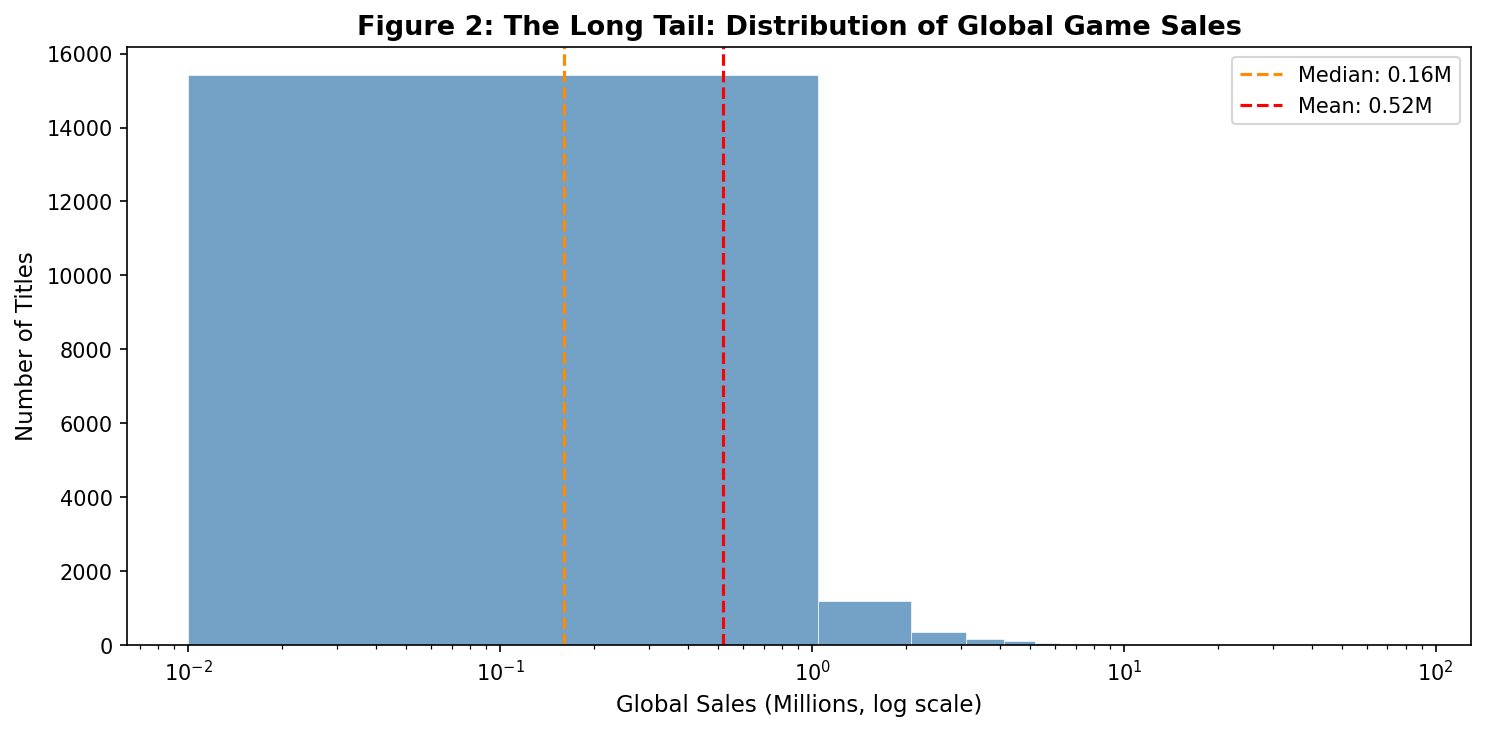
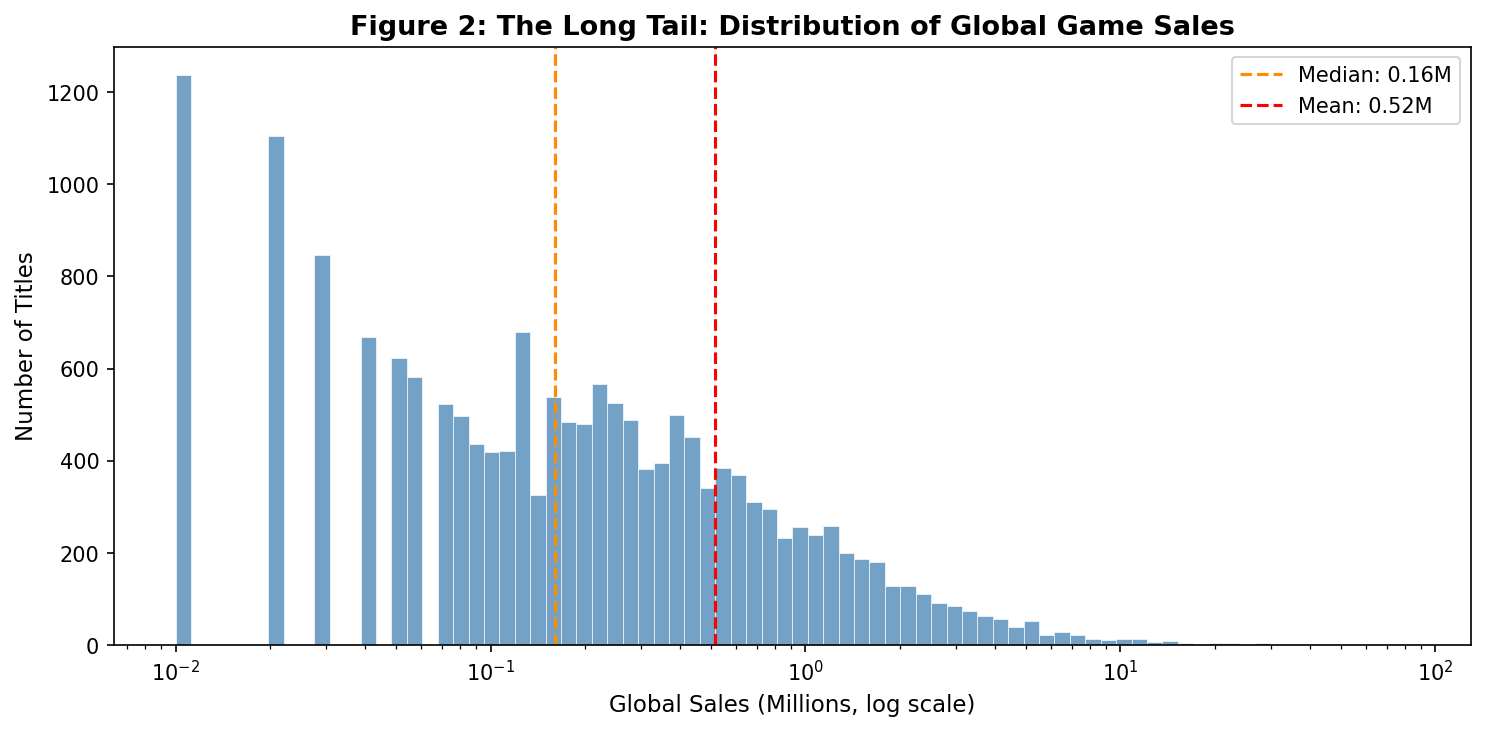
Reviewer fixes: log-scale bins, insights label, Grinsztajn title, README consistency
- Fix histogram bin computation: use log-spaced bins (np.logspace) for EDA cell and log_scale=True for Figure 2 sns.histplot so bins are correctly sized in log space
- Add numpy import to support np.logspace
- Rename 'Key Findings' to 'Key Insights and Findings' in Section 9 to satisfy rubric language
- Restore 'typical' to Grinsztajn et al. (2022) title in notebook References (NeurIPS published version)
- Fix README bias section: replace remaining 'near zero percent' with '4.3 percent' for consistency
- Regenerate module_summary.pdf with corrected Grinsztajn title

diff --git a/README.md b/README.md
@@ -1,6 +1,6 @@
 # Reproducible Data Workflow for Video Game Sales, Ratings, and Genre Trends
 
-**Udacity AI MBA Capstone: Project 1 of 7**
+**Udacity AI MBA Capstone: Programming Foundations Project**
 
 ---
 
@@ -96,7 +96,7 @@ This dataset carries several well defined biases that affect how results should 
 
 **Scope.** The dataset reflects the physical disc based console market sold through Western retail channels. It does not include mobile, PC digital, free to play, or post 2016 titles. Conclusions about the game industry as a whole should not be drawn from this data alone.
 
-**How cleaning choices can introduce bias.** The cleaning decisions in this project were made deliberately to avoid distorting the dataset, but different choices would have produced systematically different results. The most consequential decision was retaining NaN values in the review columns rather than dropping rows that lack critic or user scores. If those rows had been dropped, nearly all pre-2000 titles would have been eliminated from the dataset, because review coverage for that era is near zero percent. Every downstream genre distribution count, platform sales summary, and era comparison would then reflect the 2000 to 2012 disc based console market rather than the full commercial history. The pattern would appear to be a real market finding when it was actually an artifact of how missing data were handled. A similar risk applies to duplicate removal and the choice of essential fields for null filtering. If the criteria for dropping rows had been applied more aggressively, for example by also dropping rows missing ESRB rating or critic score, genre counts and global sales totals would shift in ways that look like legitimate market patterns but are driven entirely by which rows the cleaning pipeline chose to exclude (Danchev, 2022).
+**How cleaning choices can introduce bias.** The cleaning decisions in this project were made deliberately to avoid distorting the dataset, but different choices would have produced systematically different results. The most consequential decision was retaining NaN values in the review columns rather than dropping rows that lack critic or user scores. If those rows had been dropped, nearly all pre-2000 titles would have been eliminated from the dataset, because review coverage for that era is 4.3 percent. Every downstream genre distribution count, platform sales summary, and era comparison would then reflect the 2000 to 2012 disc based console market rather than the full commercial history. The pattern would appear to be a real market finding when it was actually an artifact of how missing data were handled. A similar risk applies to duplicate removal and the choice of essential fields for null filtering. If the criteria for dropping rows had been applied more aggressively, for example by also dropping rows missing ESRB rating or critic score, genre counts and global sales totals would shift in ways that look like legitimate market patterns but are driven entirely by which rows the cleaning pipeline chose to exclude (Danchev, 2022).
 
 These limitations are discussed in detail in Section 8 of the notebook and in the `module_summary.pdf` report.
 